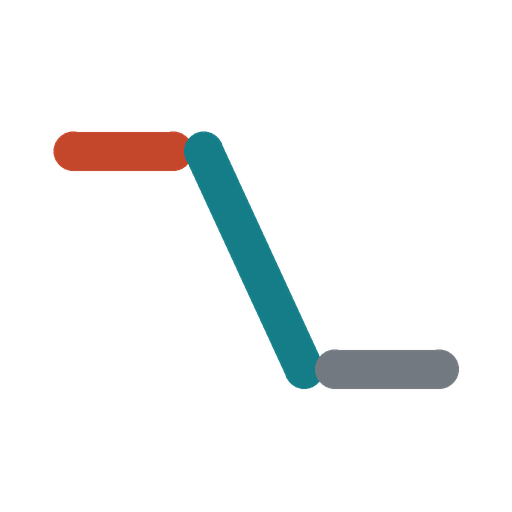
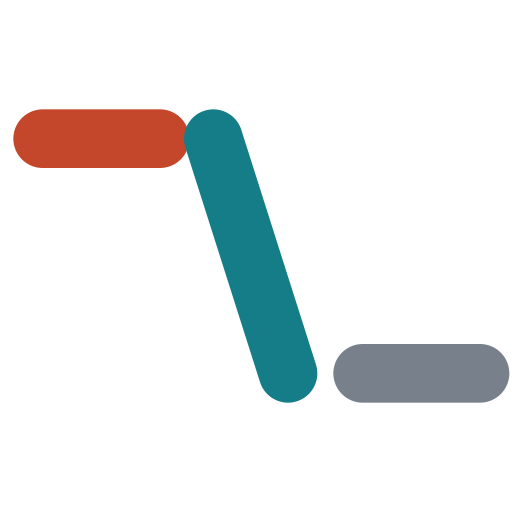
DOC: adopt final divergence identity assets

Changed region(s): [[0.4062, 0.4062, 1.0, 0.8125], [0.0, 0.1875, 0.5938, 0.5938], [0.375, 0.375, 0.4062, 0.4062]]

diff --git a/README.md b/README.md
@@ -1,3 +1,5 @@
+<img src="docs/brand/mark.svg" width="64" alt="Criticality Spectrometer mark">
+
 # Criticality Spectrometer
 
 **Measure node criticality as a curve across adaptation horizons in AND/OR dependency systems.**
